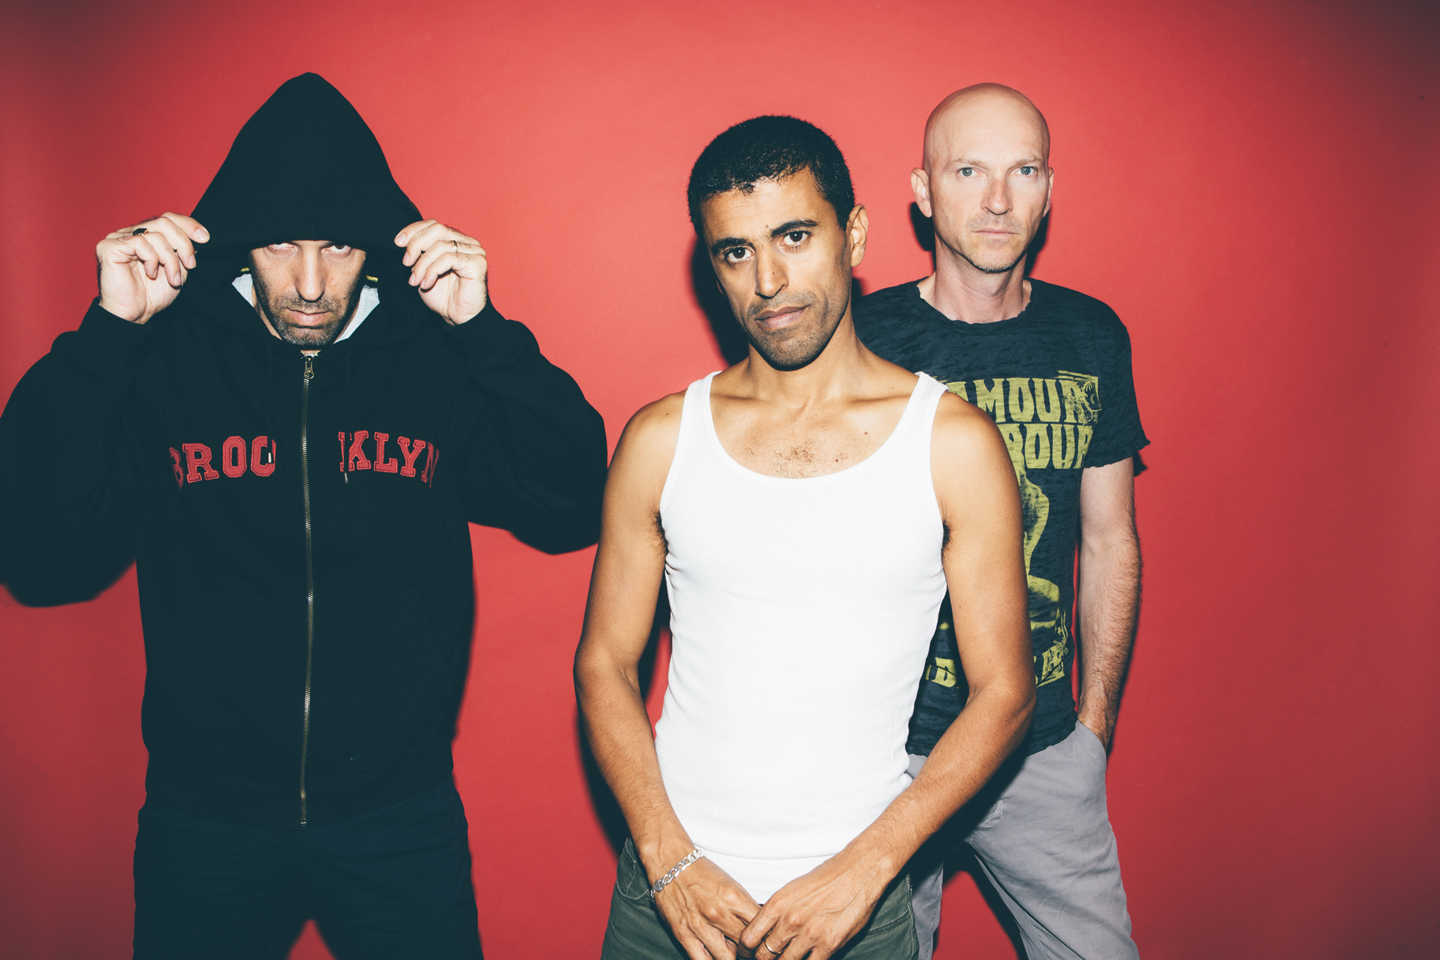
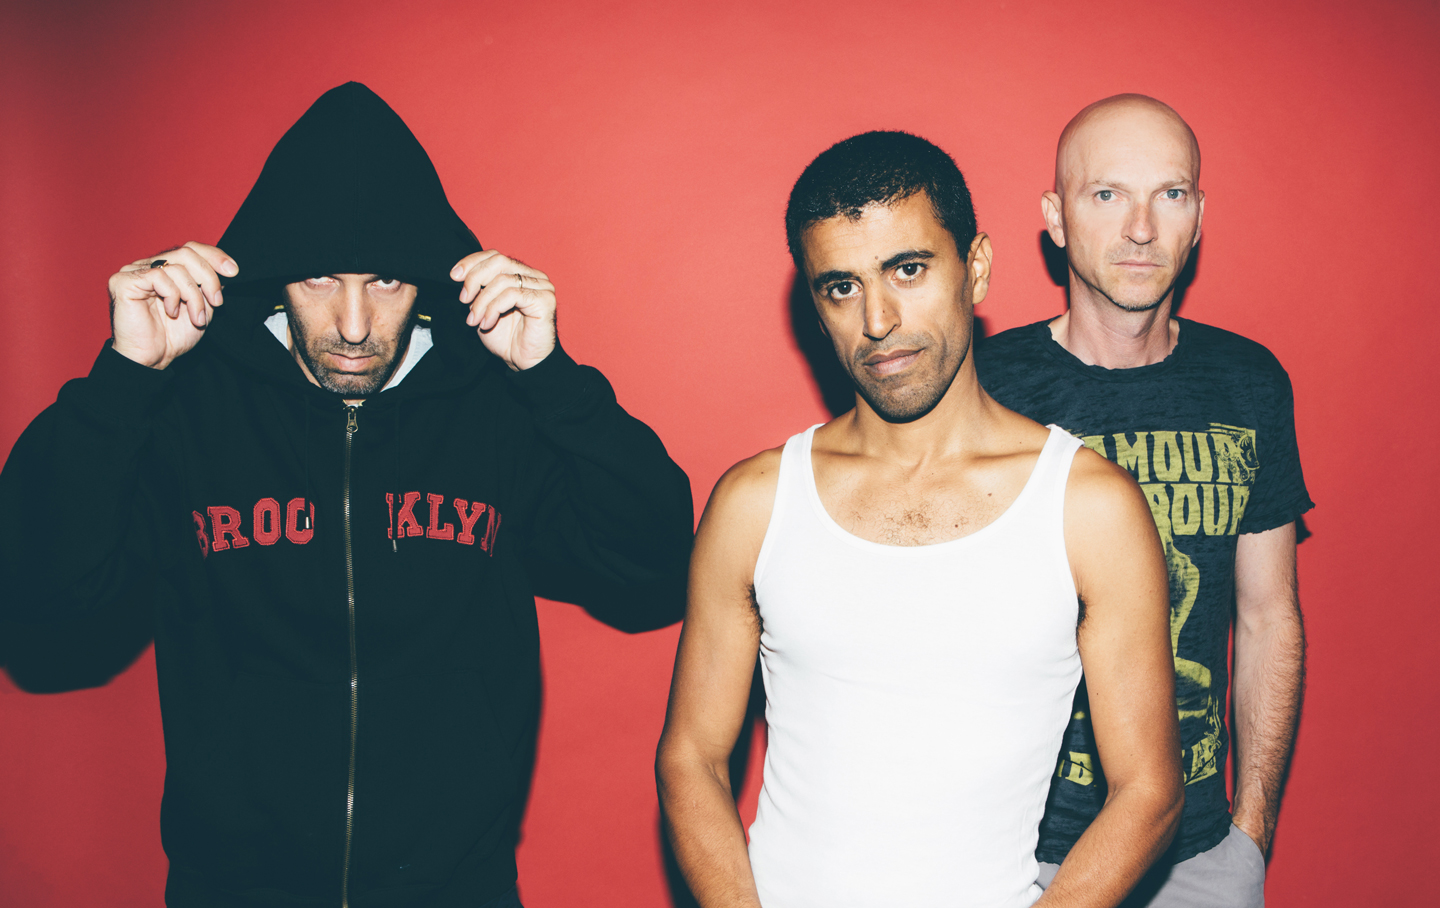
styling updated

diff --git a/index.html b/index.html
@@ -18,7 +18,7 @@
 				</div>	
 				<div class="col-lg-6 col-md-6 col-sm-6 col-xs-12">
 					<div class="title">
-					<img src="img/bbb_title.png" class="img-responsive">
+					<img src="img/bbb_title_red.png" class="img-responsive">
 					</div>
 				</div>
 				<div class="col-lg-3 col-md-3 col-sm-3 col-xs-0">
@@ -98,72 +98,73 @@
 			</div>
 		</nav>
 		<main>
-			<div class="background-image"></div>
-			<div class="container-fluid">
-				<div class="row">
-					<div class="col-lg-1 col-md-1 col-sm-1 col-xs-0"></div>
-					<div class="col-lg-10 col-md-10 col-sm-10 col-xs-12">
-						<div class="main-content">
-							<div class="content-category">
-								<h1>INSTAGRAM</h1>
-								<div class="ig_feed">
-									<script src="http://snapwidget.com/js/snapwidget.js"></script>
-									<iframe src="http://snapwidget.com/p/widget/?id=XMGPv6BHgl&t=287" title="Instagram Widget" class="snapwidget-widget" allowTransparency="true" frameborder="0" scrolling="no" style="border:none; overflow:hidden; width:100%;"></iframe>
+			<div class="background-image">
+				<div class="container-fluid">
+					<div class="row">
+						<div class="col-lg-1 col-md-1 col-sm-1 col-xs-0"></div>
+						<div class="col-lg-10 col-md-10 col-sm-10 col-xs-12">
+							<div class="main-content">
+								<div class="content-category">
+									<h1>INSTAGRAM</h1>
+									<div class="ig_feed">
+										<script src="http://snapwidget.com/js/snapwidget.js"></script>
+										<iframe src="http://snapwidget.com/p/widget/?id=XMGPv6BHgl&t=85" title="Instagram Widget" class="snapwidget-widget" allowTransparency="true" frameborder="0" scrolling="no" style="border:none; overflow:hidden; width:100%;"></iframe>
+									</div>
+									<div class="button-more">
+										<a href="">MORE PHOTOS</a>
+									</div>
 								</div>
-								<div class="button-more">
-									<a href="">MORE PHOTOS</a>
+								<div class="content-category">
+									<h1>TOUR</h1>
+									<div class="bandsintown-widget">
+										<script src="http://snapwidget.com/js/snapwidget.js"></script>
+										<iframe src="http://snapwidget.com/p/widget/?id=XMGPv6BHgl&t=264" title="Instagram Widget" class="snapwidget-widget" allowTransparency="true" frameborder="0" scrolling="no" style="border:none; overflow:hidden; width:100%;"></iframe>
+										<br>
+									</div>
+									<div class="button-more">
+										<a href="">FULL SCHEDULE</a>
+									</div>
 								</div>
-							</div>
-							<div class="content-category">
-								<h1>TOUR</h1>
-								<div class="bandsintown-widget">
-									<script type='text/javascript' src='http://www.bandsintown.com/javascripts/bit_widget.js'></script>
-									<a href='http://www.bandsintown.com' class='bit-widget-initializer' data-artist="balkan beat box" data-text-color='black' data-link-color="black" data-separator-color="black" data-share-links="false" ></a>
-									<br>
+								<div class="content-category">
+									<h1>CURRENT RELEASE</h1>
+									<div class="album-cover-mobile">	
+										<img src="img/bbb-give-cover.jpg" class="img-responsive">
+									</div>
+									<div class="dropdown">
+									  <button class="btn btn-default dropdown-toggle" type="button" id="dropdownMenu1" data-toggle="dropdown" aria-haspopup="true" aria-expanded="true">
+									    BUY
+									    <!-- <span class="caret"></span> -->
+									  </button>
+									  <ul class="dropdown-menu" aria-labelledby="dropdownMenu1">
+									    <li><a href="#">iTunes</a></li>
+									    <li><a href="#">Amazon</a></li>
+									  </ul>
+									</div>
+									<div class="dropdown">
+									  <button class="btn btn-default dropdown-toggle" type="button" id="dropdownMenu1" data-toggle="dropdown" aria-haspopup="true" aria-expanded="true">
+									    STREAM
+									    <!-- <span class="caret"></span> -->
+									  </button>
+									  <ul class="dropdown-menu" aria-labelledby="dropdownMenu1">
+									    <li><a href="#">Spotify</a></li>
+									    <li><a href="#">Apple Play</a></li>
+									  </ul>
+									</div>
+									<div class="button-more">
+									<a href="">ALL RECORDS</a>
+									</div>
 								</div>
-								<div class="button-more">
-									<a href="">FULL SCHEDULE</a>
-								</div>
-							</div>
-							<div class="content-category">
-								<h1>CURRENT RELEASE</h1>
-								<div class="album-cover-mobile">	
-									<img src="img/bbb-give-cover.jpg" class="img-responsive">
-								</div>
-								<div class="dropdown">
-								  <button class="btn btn-default dropdown-toggle" type="button" id="dropdownMenu1" data-toggle="dropdown" aria-haspopup="true" aria-expanded="true">
-								    BUY
-								    <!-- <span class="caret"></span> -->
-								  </button>
-								  <ul class="dropdown-menu" aria-labelledby="dropdownMenu1">
-								    <li><a href="#">iTunes</a></li>
-								    <li><a href="#">Amazon</a></li>
-								  </ul>
-								</div>
-								<div class="dropdown">
-								  <button class="btn btn-default dropdown-toggle" type="button" id="dropdownMenu1" data-toggle="dropdown" aria-haspopup="true" aria-expanded="true">
-								    STREAM
-								    <!-- <span class="caret"></span> -->
-								  </button>
-								  <ul class="dropdown-menu" aria-labelledby="dropdownMenu1">
-								    <li><a href="#">Spotify</a></li>
-								    <li><a href="#">Apple Play</a></li>
-								  </ul>
-								</div>
-								<div class="button-more">
-								<a href="">ALL RECORDS</a>
-								</div>
-							</div>
-							<div class="content-category">
-								<h1>FEATURED VIDEO</h1>
-								<iframe width="300" height="169" src="https://www.youtube.com/embed/5jBAJs3otcY" frameborder="0" allowfullscreen></iframe>
-								<div class="button-more">
-								<a href="">ALL VIDEOS</a>
+								<div class="content-category">
+									<h1>FEATURED VIDEO</h1>
+									<iframe width="300" height="169" src="https://www.youtube.com/embed/5jBAJs3otcY" frameborder="0" allowfullscreen></iframe>
+									<div class="button-more">
+									<a href="">ALL VIDEOS</a>
+									</div>
 								</div>
 							</div>
 						</div>
+						<div class="col-lg-1 col-md-1 col-sm-1 col-xs-0"></div>
 					</div>
-					<div class="col-lg-1 col-md-1 col-sm-1 col-xs-0"></div>
 				</div>
 			</div>
 		</main>

diff --git a/css/bootstrap.css b/css/bootstrap.css
@@ -1810,13 +1810,13 @@ pre code {
   overflow-y: scroll;
 }
 .header{
-  background-color: #dadedf;
+  background-color: #132b35;
 }
 .background-image{
-  background: url(../img/bbb-bg.jpg);
-  z-index: -1;
-  width: 1440px;
-  height: 800px;
+  background: 
+    url(../img/bbb-bg-lg.jpg);
+    z-index: -1;
+  /*background-repeat: none;*/
 }
 .container {
   padding-right: 0px;
@@ -4583,13 +4583,9 @@ select[multiple].input-group-sm > .input-group-btn > .btn {
   text-align: center;
 }
 .navbar-nav > li > a {
-  padding-top: 10px;
-  padding-bottom: 10px;
-  line-height: 20px;
-/*  color: black;*/
-}
-.navbar-nav > li > a:hover{
-  color: black;
+  line-height: 3px;
+  padding-top: 0px;
+  padding-bottom: 0px;
 }
 @media (max-width: 767px) {
   .navbar-nav .open .dropdown-menu {
@@ -4829,8 +4825,7 @@ select[multiple].input-group-sm > .input-group-btn > .btn {
   }
 }
 .navbar-default {
-  background-color: #dadedf;
-  border-color: white;
+  background-color: #142c36;
 }
 .navbar-default .navbar-brand {
   color: #777;
@@ -4844,12 +4839,12 @@ select[multiple].input-group-sm > .input-group-btn > .btn {
   color: #777;
 }
 .navbar-default .navbar-nav > li > a {
-  color: black;
+  color: #dadedf;
   font-family: 'Fjalla One', sans-serif;
 }
 .navbar-default .navbar-nav > li > a:hover,
 .navbar-default .navbar-nav > li > a:focus {
-  color: white;
+  color: #d61111;
   background-color: transparent;
   -o-transition:.1s;
   -ms-transition:.1s;
@@ -5091,6 +5086,7 @@ fieldset[disabled] .navbar-inverse .btn-link:focus {
   margin-right: 10px;
   margin-left: 10px;
   border: 5px solid black;
+  max-width: 800px;
 }
 .button-more{
   margin-top: 20px;
